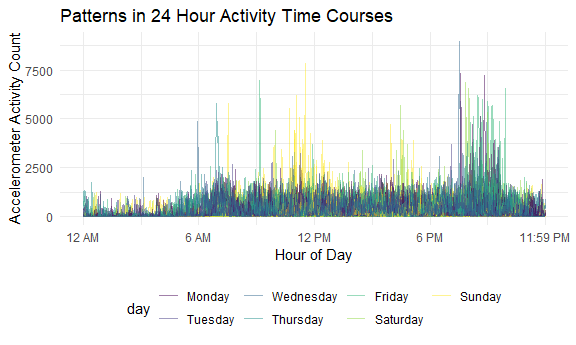
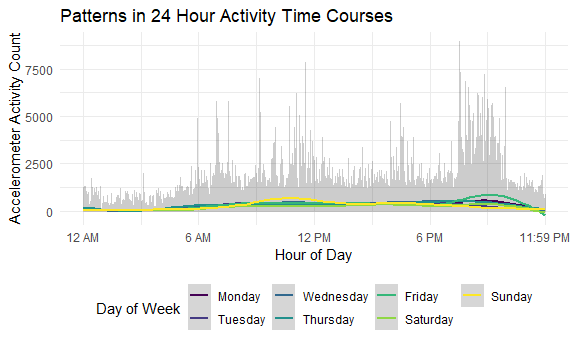
modified figure for problem 2

diff --git a/p8105_hw3_sec2209.md b/p8105_hw3_sec2209.md
@@ -8,14 +8,14 @@ This is my third homework assignment for P8105.
 library(tidyverse)
 ```
 
-    ## -- Attaching packages ----------------------------------------------------------------------------------------------------------------------- tidyverse 1.3.0 --
+    ## -- Attaching packages ------------------------------------ tidyverse 1.3.0 --
 
     ## v ggplot2 3.3.2     v purrr   0.3.4
     ## v tibble  3.0.3     v dplyr   1.0.2
     ## v tidyr   1.1.2     v stringr 1.4.0
     ## v readr   1.3.1     v forcats 0.5.0
 
-    ## -- Conflicts -------------------------------------------------------------------------------------------------------------------------- tidyverse_conflicts() --
+    ## -- Conflicts --------------------------------------- tidyverse_conflicts() --
     ## x dplyr::filter() masks stats::filter()
     ## x dplyr::lag()    masks stats::lag()
 
@@ -155,10 +155,13 @@ accel =
     values_to = "active",
     names_prefix = "activity_"
   ) %>%
-  mutate(weekend = as.factor(ifelse(day %in% c("Saturday", "Sunday"), "Weekend", "Weekday")),
-         day = as.factor(day),
-         day = forcats::fct_relevel(day, c("Monday", "Tuesday", "Wednesday", "Thursday", "Friday", "Saturday", "Sunday")),
-         activity_count = as.numeric(activity_count))
+  mutate(
+    weekend = as.factor(ifelse(day %in% c("Saturday", "Sunday"), "Weekend", "Weekday")),
+    day = as.factor(day),
+    day = forcats::fct_relevel(day, c("Monday", "Tuesday", "Wednesday", "Thursday", "Friday", "Saturday", "Sunday")),
+    activity_count = as.numeric(activity_count),
+    day_id = as.factor(day_id)
+    )
 ```
 
     ## Parsed with column specification:
@@ -241,8 +244,10 @@ accel %>%
 
 ``` r
 accel %>%
-  ggplot(aes(x = activity_count, y = active, color = day, group = day_id)) + 
-  geom_line(alpha = .5) +
+  group_by(day_id) %>%
+  ggplot(aes(x = activity_count, y = active, color = day)) + 
+  geom_line(color = "black", alpha = .2) +
+  stat_smooth() +
   scale_x_continuous(
     breaks = c(0, 360, 720, 1080, 1440),
     labels = c("12 AM", "6 AM", "12 PM", "6 PM", "11:59 PM"),
@@ -250,18 +255,21 @@ accel %>%
   labs(
     title = "Patterns in 24 Hour Activity Time Courses",
     x = "Hour of Day",
-    y = "Accelerometer Activity Count"
+    y = "Accelerometer Activity Count",
+    color = "Day of Week"
   )
 ```
+
+    ## `geom_smooth()` using method = 'gam' and formula 'y ~ s(x, bs = "cs")'
 
 <img src="p8105_hw3_sec2209_files/figure-gfm/accel_24-2.png" width="90%" />
 
 Based on this graph, this patient begins increasing their activity level
-around 6 AM. In general, this patient’s activity level remains
-relatively steady throughout the day, with some noticeable exceptions.
-For example, on Sundays there is an increase in activity around 12 PM.
-During weekdays and Saturdays, there is an increase in activity around
-8-9 PM.
+around 6 AM. The patient has some moments of high activity, particularly
+in the evening. On average, activity level does not differ by day of
+week, with some minor exceptions. For example, on Sundays there is an
+increase in activity around 11 AM - 12 PM. During Fridays, there is an
+increase in activity around 8-9 PM.
 
 ## Problem 3
 
@@ -297,23 +305,16 @@ noaa = ny_noaa %>%
 
 noaa %>%
   count(snow) %>%
-  arrange(desc(n))
+  arrange(desc(n)) %>%
+  top_n(1)
 ```
 
-    ## # A tibble: 282 x 2
-    ##     snow       n
-    ##    <int>   <int>
-    ##  1     0 2008508
-    ##  2    NA  381221
-    ##  3    25   31022
-    ##  4    13   23095
-    ##  5    51   18274
-    ##  6    76   10173
-    ##  7     8    9962
-    ##  8     5    9748
-    ##  9    38    9197
-    ## 10     3    8790
-    ## # ... with 272 more rows
+    ## Selecting by n
+
+    ## # A tibble: 1 x 2
+    ##    snow       n
+    ##   <int>   <int>
+    ## 1     0 2008508
 
 The National Oceanic and Atmospheric Association (NOAA) National
 Climatic Data Center data contain summary statistics from weather
@@ -368,12 +369,13 @@ noaa %>%
   summarize(mean_tmax = mean(tmax, na.rm = TRUE)) %>%
   drop_na(mean_tmax) %>% 
   ggplot(aes(x = year, y = mean_tmax, group = id, color = month)) + 
-  geom_line(alpha = .6) +
+  geom_line(alpha = .5) +
   facet_grid(. ~ month) +
   labs(
     title = "Distribution in the Average Maximum Temperature at the NY NOAA Stations across 1981-2010",
     x = "Year",
-    y = "Average Maximum Temperature (Degrees Celsius)"
+    y = "Average Maximum Temperature (Degrees Celsius)",
+    color = "Month"
   )
 ```
 
@@ -383,8 +385,10 @@ noaa %>%
 
 From this graph, we can see that average maximum temperatures in July
 are much higher than temperatures in January, as expected. There is also
-a wider range and more outliers in the January temperatures across NY
-NOAA stations than in the July temperatures.
+a wider range in the January temperatures across NY NOAA stations than
+in the July temperatures. There are a few noticeable outliers, with one
+station having a temperature below 15 degrees Celsius in July and
+another station having a temperaure below -5 degrees Celsius in January.
 
 In this next code chunk, I create a two-panel plot showing `tmax` and
 `tmin` for the full data set and showing the distribution of snowfall
@@ -453,7 +457,8 @@ plot_temp2 = noaa %>%
      title = "Plot of Minimum and Maximum Temperatures",
     x = "Maximum Temperature (Degrees Celsius)",
      y = "Minimum Temperature (Degrees Celsius)"
-    )
+    ) +
+  theme(legend.position = "right")
 
 plot_snow2 = noaa %>%
   filter(snow > 0, snow < 100) %>%
